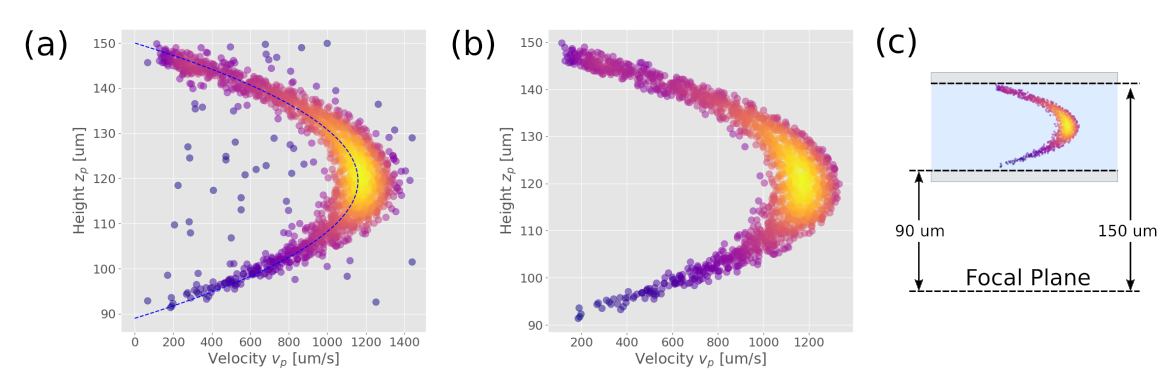
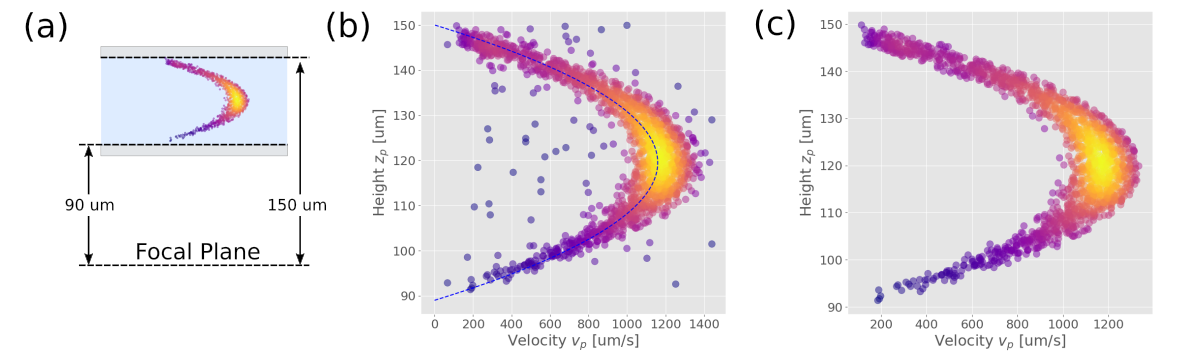
Fixing example_poiseuille_fit.png, its caption and in-text references to suit a better narrative.

diff --git a/Chapters/07_synthesis.tex b/Chapters/07_synthesis.tex
@@ -129,12 +129,12 @@ characterization data for a few thousand colloidal spheres per sample.
     \centering
     \includegraphics[width=\columnwidth]{example_poiseuille_fit}
     \caption{The measured flow profile of particles streaming through the xCell.
-      (a) Scatter plot of average particle height and average velocities; each
+      (a)  A diagram of the observed Poiseuille flow.\protect\footnotemark 
+      (b) Scatter plot of average particle height and average velocities; each
       dot represents a single micrometer scatterer. Color denotes the density of
       observations. The fit to a parabolic flow profile is illustrated with a dashed
-      blue line. (b) Scatter plot of data after filtering observations deviating
-      from the parabolic profile. (c) A diagram of the observed Poiseuille flow.\protect\footnotemark
-    }
+      blue line. (c) Scatter plot of data after filtering observations deviating
+      from the parabolic profile.}
     \label{fig:flow_prof}
 \end{figure}
 
